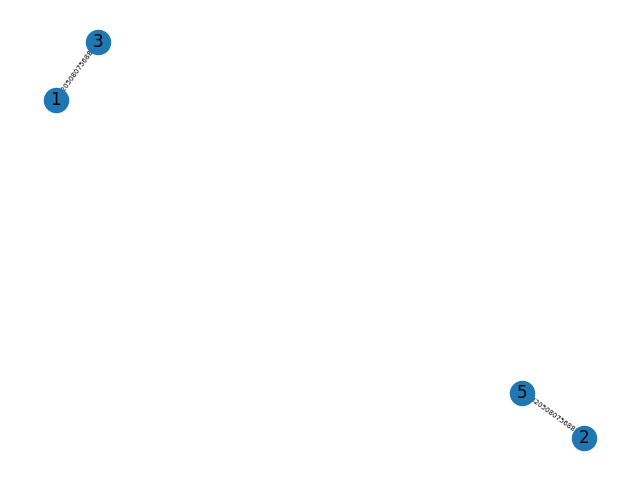
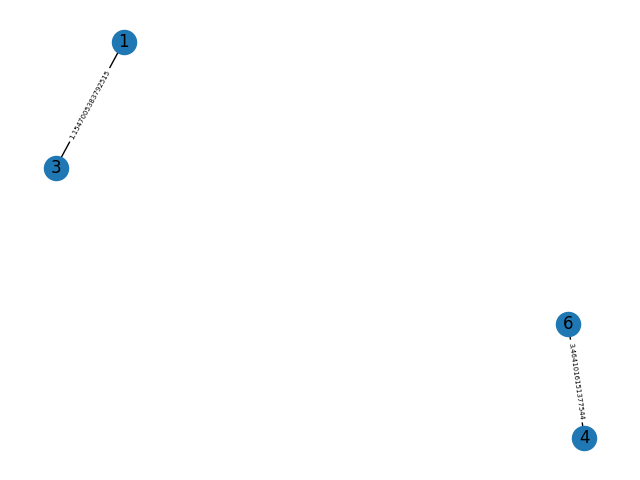
alg

diff --git a/algoritmus.py b/algoritmus.py
@@ -1,6 +1,5 @@
 import os
 import itertools
-
 import utils.main_util as main_util
 from utils.graph import Graph
 import math
@@ -10,20 +9,18 @@ def getLength(x1,y1,z1,e1,x2,y2,z2,e2):
 def getLengthProper(x1,y1,z1,x2,y2,z2):
     return math.sqrt((x2 - x1)**2 + (y2 - y1)**2 + (z2 - z1)**2)
 def getRealPathValues(path:list[dict]):
-    print(path)
     legth=[]
     for id,point in enumerate(path):
-        print(point)
         if id != len(path)-1:
             legth.append(getLengthProper(point["x"],point["y"],point["z"],path[id+1]["x"],path[id+1]["y"],path[id+1]["z"]))
         else:
             pass
     return legth
-        
-def initInput():
+def initInput(temporary_points):
     f=open("gyongyok.txt","r+",encoding="utf8")
     lines=f.readlines()
     f.close()
+    temporary_points.append({"x":0,"y":0,"z":0,"e":1})#Kezdőpont
     for id,line in enumerate(lines):
         if id == 0:
             continue
@@ -33,8 +30,6 @@ def initInput():
                                  "z":int(parts[2]),
                                  "e":int(parts[3])})
     complete_lines=[]
-    number_of_completed_lines=reduce(lambda x, y:x+y, range(len(temporary_points)))
-    print(number_of_completed_lines)
     for id,point in enumerate(temporary_points):
         for i in range(len(temporary_points)-id-1):
             path=getLength(point["x"],point["y"],point["z"],point["e"],temporary_points[id+i+1]["x"],temporary_points[id+i+1]["y"],temporary_points[id+i+1]["z"],temporary_points[id+i+1]["e"])
@@ -42,10 +37,109 @@ def initInput():
             print(f"{point},{temporary_points[id+i+1]},{path}")
             complete_lines.append(f"{id+1},{id+i+2},{path}")
     return complete_lines
-if __name__ == '__main__':
+def getResultPeti():
+    import peti_alg
+    elements = peti_alg.run()
+    in_order=[]
+    for id,element in enumerate(elements):
+        in_order.append(element[0])
+        if id == len(elements)-1:
+            in_order.append(element[1])
+    peti=list(map(lambda x: str(x+1),in_order))
+    #Nem 1től 1ig megy, ki kell javítani a kört
+    kijavitott=[]
+    egyes=peti.index('1')
+    for id,szam in enumerate(peti):
+        if id==len(peti)-1:
+            kijavitott.append(peti[egyes])
+        elif egyes+id >= len(peti):
+            kijavitott.append(peti[id-len(peti)+egyes+1])
+        else:
+            kijavitott.append(peti[egyes+id])
+    return kijavitott
+def getInTime(path_distances:list[float],path_times:list[float],path_points:list[dict],time:float,velocity:float):
+    path_value=[]
+    #meg kell győzödni, hogy nem tudjuk körbejárni az adott idő alatt
+    if not reduce(lambda x, y:x+y, path_times) > time:
+        for id,point in enumerate(path_points):
+            if id==0 or id==len(path_points)-1:
+                path_value.append(0)
+                continue
+            path_value.append(point["e"])
+        return path_distances,path_times,path_points,path_value
+    #Első szegmens, előről
+    temp_path_points_front=[path_points[0]]
+    temp_path_times_front=[]
+    temp_path_distances_front=[]
+    currentTime=0
+    while currentTime <= time/2:
+        will_be=path_times[len(temp_path_points_front)-1]
+        if will_be+currentTime <= time/2:
+            currentTime+=will_be
+            temp_path_points_front.append(path_points[len(temp_path_points_front)])
+            temp_path_times_front.append(will_be)
+            temp_path_distances_front.append(path_distances[len(temp_path_points_front)])
+        else:
+            break
+    #Második szegmens, hátulról
+    temp_path_points_back=[path_points[-1]]
+    temp_path_times_back=[]
+    temp_path_distances_back=[]
+    currentTime=0
+    path_times.reverse()
+    path_points.reverse()
+    path_distances.reverse()
+    while currentTime <= time/2:
+        will_be=path_times[len(temp_path_points_back)-1]
+        if will_be+currentTime <= time/2:
+            currentTime+=will_be
+            temp_path_points_back.append(path_points[len(temp_path_points_back)])
+            temp_path_times_back.append(will_be)
+            temp_path_distances_back.append(path_distances[len(temp_path_points_back)])
+        else:
+            break
+    #Összekötjük őket (a hátulról menő arrayt, az elülről menő arrayel)
+    #Megnézzük, hogy jó-e így
+    while reduce(lambda x, y:x+y, temp_path_times_back+temp_path_times_front+[getLengthProper(temp_path_points_front[-1]["x"],
+                                                                                              temp_path_points_front[-1]["y"],
+                                                                                              temp_path_points_front[-1]["z"],
+                                                                                              temp_path_points_back[-1]["x"],
+                                                                                              temp_path_points_back[-1]["y"],
+                                                                                              temp_path_points_back[-1]["z"])/velocity]) > time:
+        if temp_path_points_front[-1]["e"]/temp_path_times_front[-1] > temp_path_points_back[-1]["e"]/temp_path_times_back[-1]:
+            temp_path_distances_back.pop()
+            temp_path_times_back.pop()
+            temp_path_points_back.pop()
+        else:
+            temp_path_distances_front.pop()
+            temp_path_times_front.pop()
+            temp_path_points_front.pop()
+    #összekötés
+    connection=getLengthProper(temp_path_points_front[-1]["x"],
+                                temp_path_points_front[-1]["y"],
+                                temp_path_points_front[-1]["z"],
+                                temp_path_points_back[-1]["x"],
+                                temp_path_points_back[-1]["y"],
+                                temp_path_points_back[-1]["z"])
+    temp_path_points_back.reverse()
+    temp_path_times_back.reverse()
+    temp_path_distances_back.reverse()
+    
+    merged_path_points=temp_path_points_front+temp_path_points_back
+    merged_path_times=temp_path_times_front+temp_path_times_back+[connection/velocity]
+    merged_path_distances=temp_path_distances_front+temp_path_distances_back+[connection]
+    
+    for id,point in enumerate(merged_path_points):
+        if id==0 or id==len(merged_path_points)-1:
+            path_value.append(0)
+            continue
+        path_value.append(point["e"])
+    
+    return merged_path_distances,merged_path_times,merged_path_points,path_value
+def main(all_time,velocity):
     #x;y;z;e to vertext to vertex format
     temporary_points=[]
-    complete_lines=initInput()
+    complete_lines=initInput(temporary_points)
     debug_folder = r"output/"
     source_node = "1"
     debug = True
@@ -64,8 +158,7 @@ if __name__ == '__main__':
         main_util.print_edges_with_weight(initial_g)
         initial_g.plot_graph(os.path.join(debug_folder, "graph.png"))
 
-    # TODO : Validation of the graph: triangle inequality property
-
+    #todo Validation of the graph: triangle inequality property
     # create a MST
     mst_graph = main_util.get_mst(initial_g)
     if debug:
@@ -125,9 +218,7 @@ if __name__ == '__main__':
                                 initial_g.get_edge_weight(euler_tour[i], euler_tour[i+1]))
         final_path.plot_graph(os.path.join(debug_folder, "output.png"))
     all_path,total_weight = main_util.get_total_cost(initial_g, euler_tour)
-    peti=['5','4','3','2','1','5']
-    alternative_path,alternative=main_util.get_total_cost(initial_g,peti)
-    print(alternative)
+    peti=getResultPeti()
     print(f"Total traveling cost : {total_weight}")
     
     all_points1=[]
@@ -148,8 +239,7 @@ if __name__ == '__main__':
     a2=getRealPathValues(all_points2)
     t1=[]
     t2=[]
-    if True:
-        velocity=float(input("Sebesség(float)(e/s):"))
+    if velocity:
         for path in a1:
             time=path/velocity
             t1.append(time)
@@ -160,4 +250,18 @@ if __name__ == '__main__':
     #print(f"with value{all_path};{total_weight},")
     print(f"PetiDebug: path:{peti},cost:{a2};{reduce(lambda x, y:x+y, a2)},{list(map(lambda x: x["e"],all_points2))},time:{t2};{reduce(lambda x, y:x+y, t2)}")
     #print(f"with value{alternative_path};{alternative},")
-    
+    path_distances,path_times,path_points,path_value=getInTime(a1,t1,all_points1,all_time,velocity)
+    print(f"1{path_points}")
+    print(f"2 Idő:{reduce(lambda x, y:x+y,path_times)}/{time},{path_times}")
+    print(f"3 Hossz: {reduce(lambda x, y:x+y,path_distances)},{path_distances}")
+    print(f"4 Pont: {reduce(lambda x, y:x+y,path_value)},{path_value}")
+    print(f"Peti\n\n\n\n")
+    path_distances,path_times,path_points,path_value=getInTime(a2,t2,all_points2,all_time,velocity)
+    print(f"1{path_points}")
+    print(f"2 Idő:{reduce(lambda x, y:x+y,path_times)}/{time},{path_times}")
+    print(f"3 Hossz: {reduce(lambda x, y:x+y,path_distances)},{path_distances}")
+    print(f"4 Pont: {reduce(lambda x, y:x+y,path_value)},{path_value}")
+if __name__ == "__main__":
+    velocity=float(input("Sebesség(float)(e/s):"))
+    time=float(input("Idő(float)(s):"))
+    main(time,velocity)
